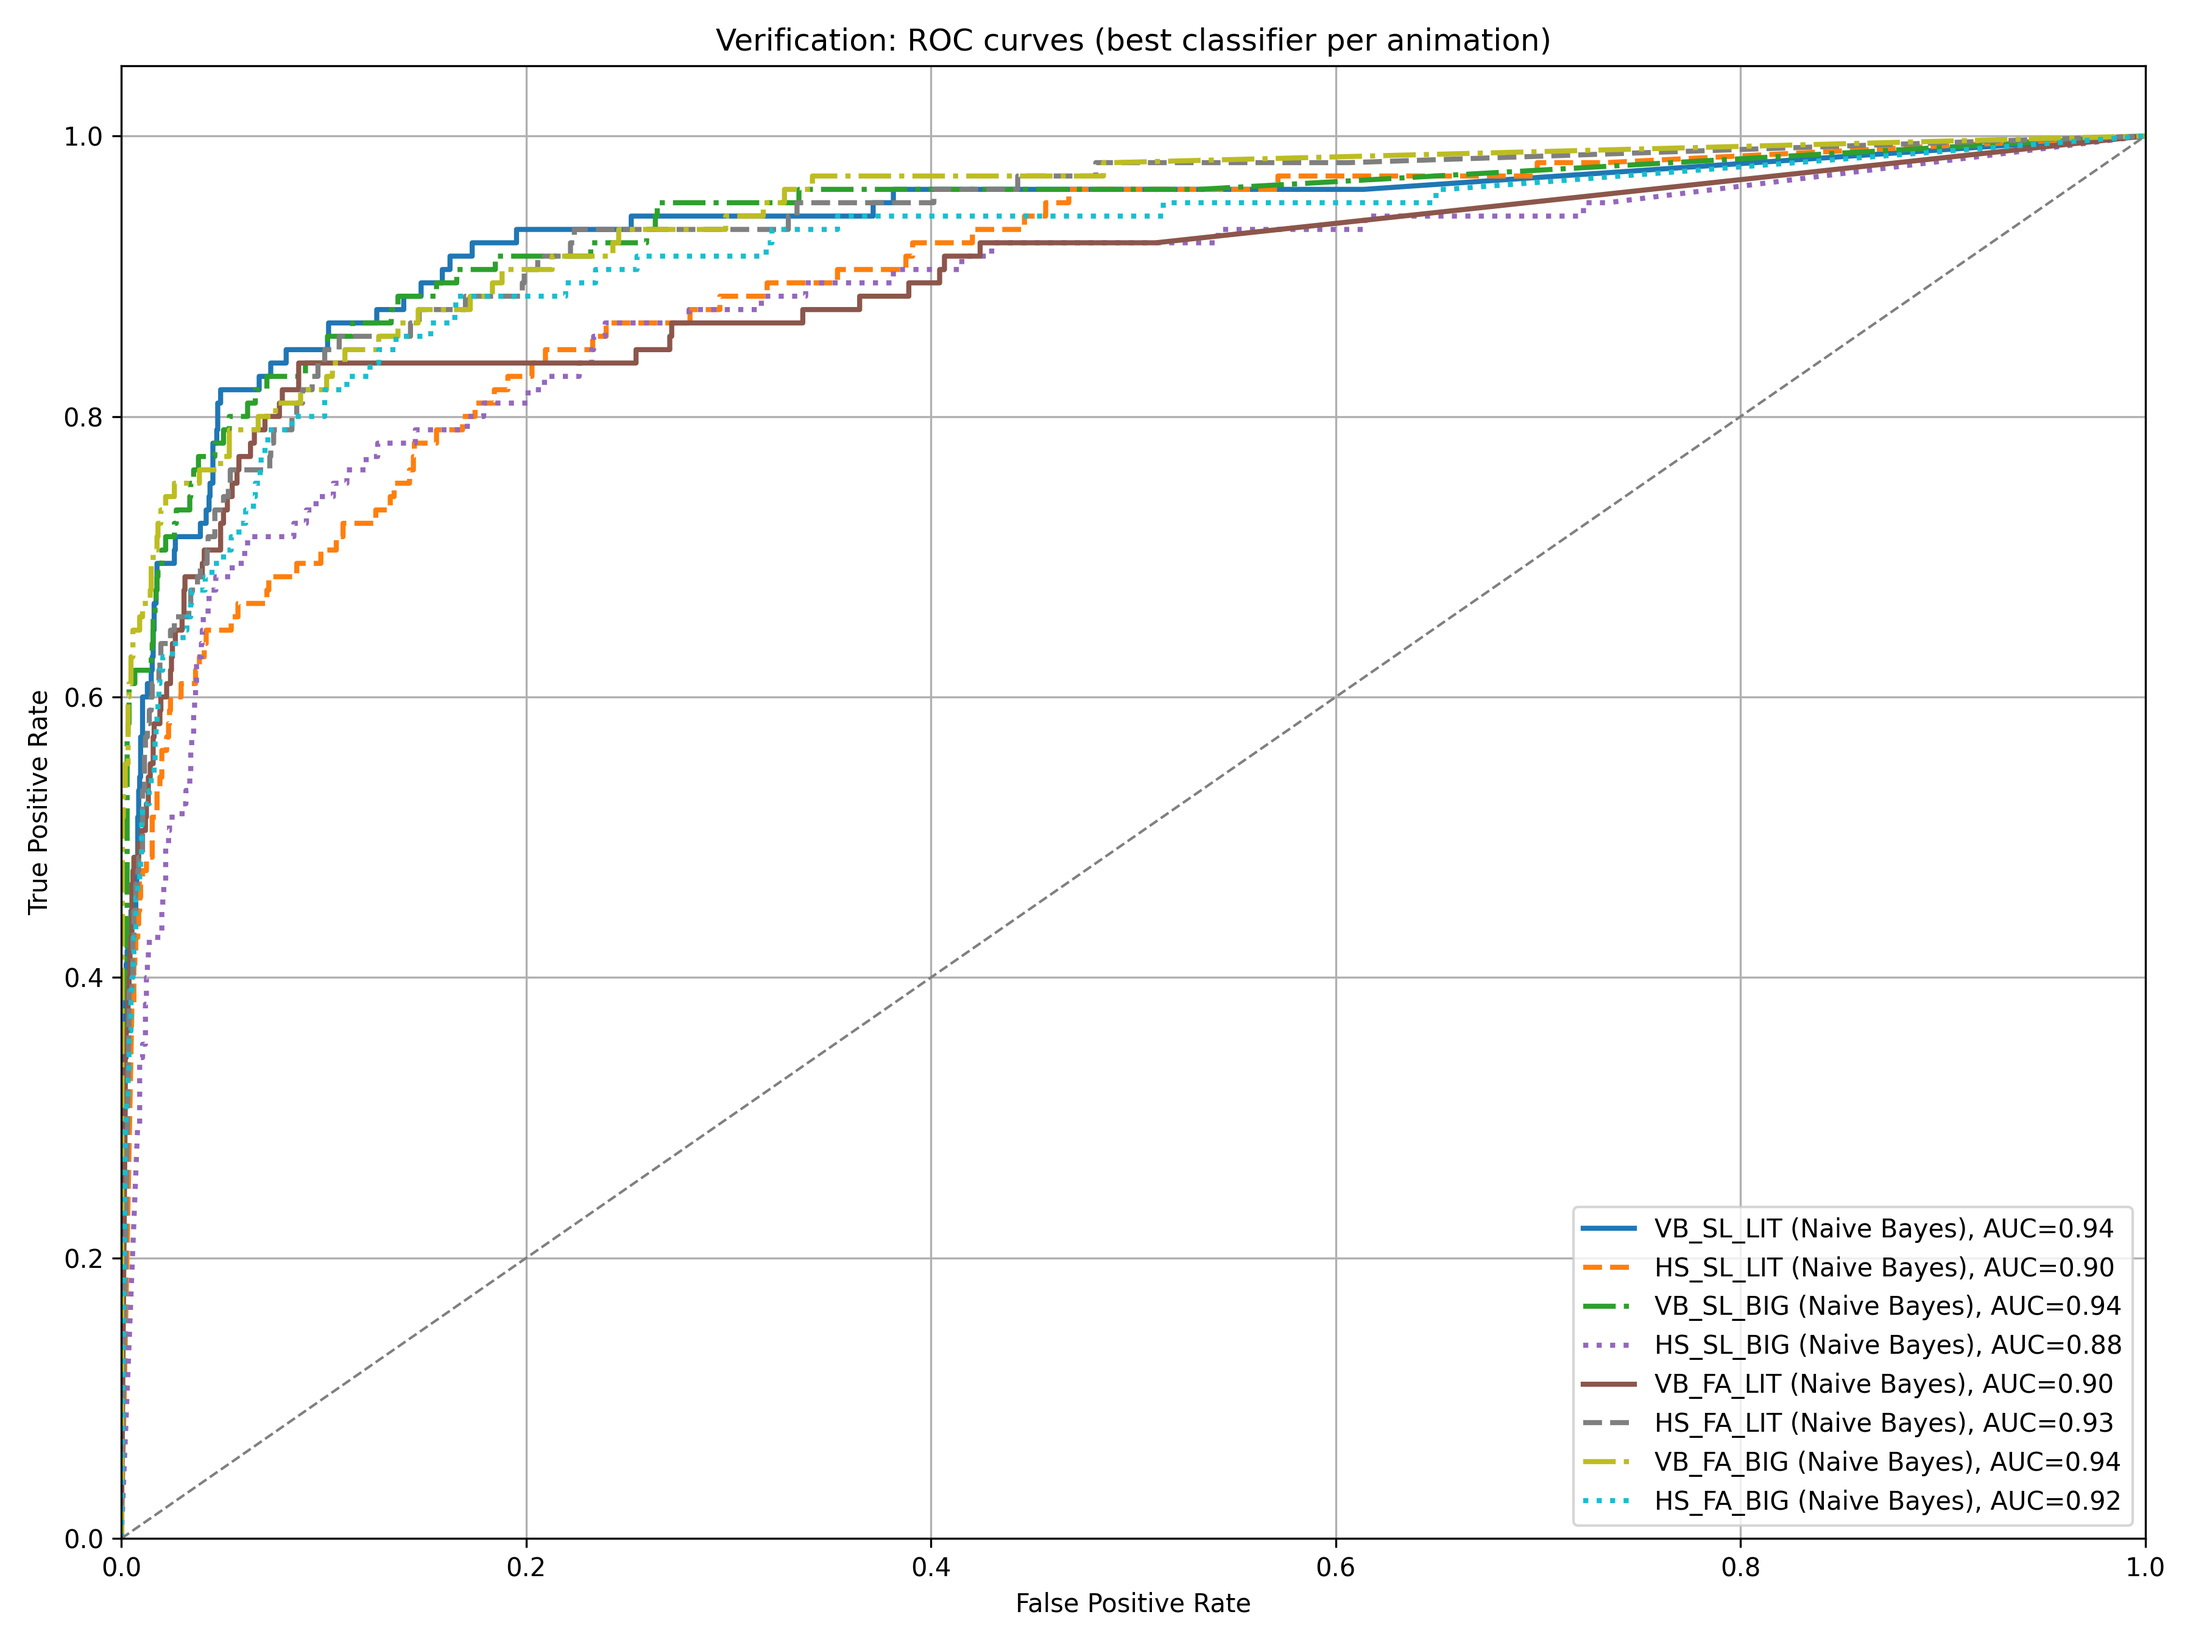
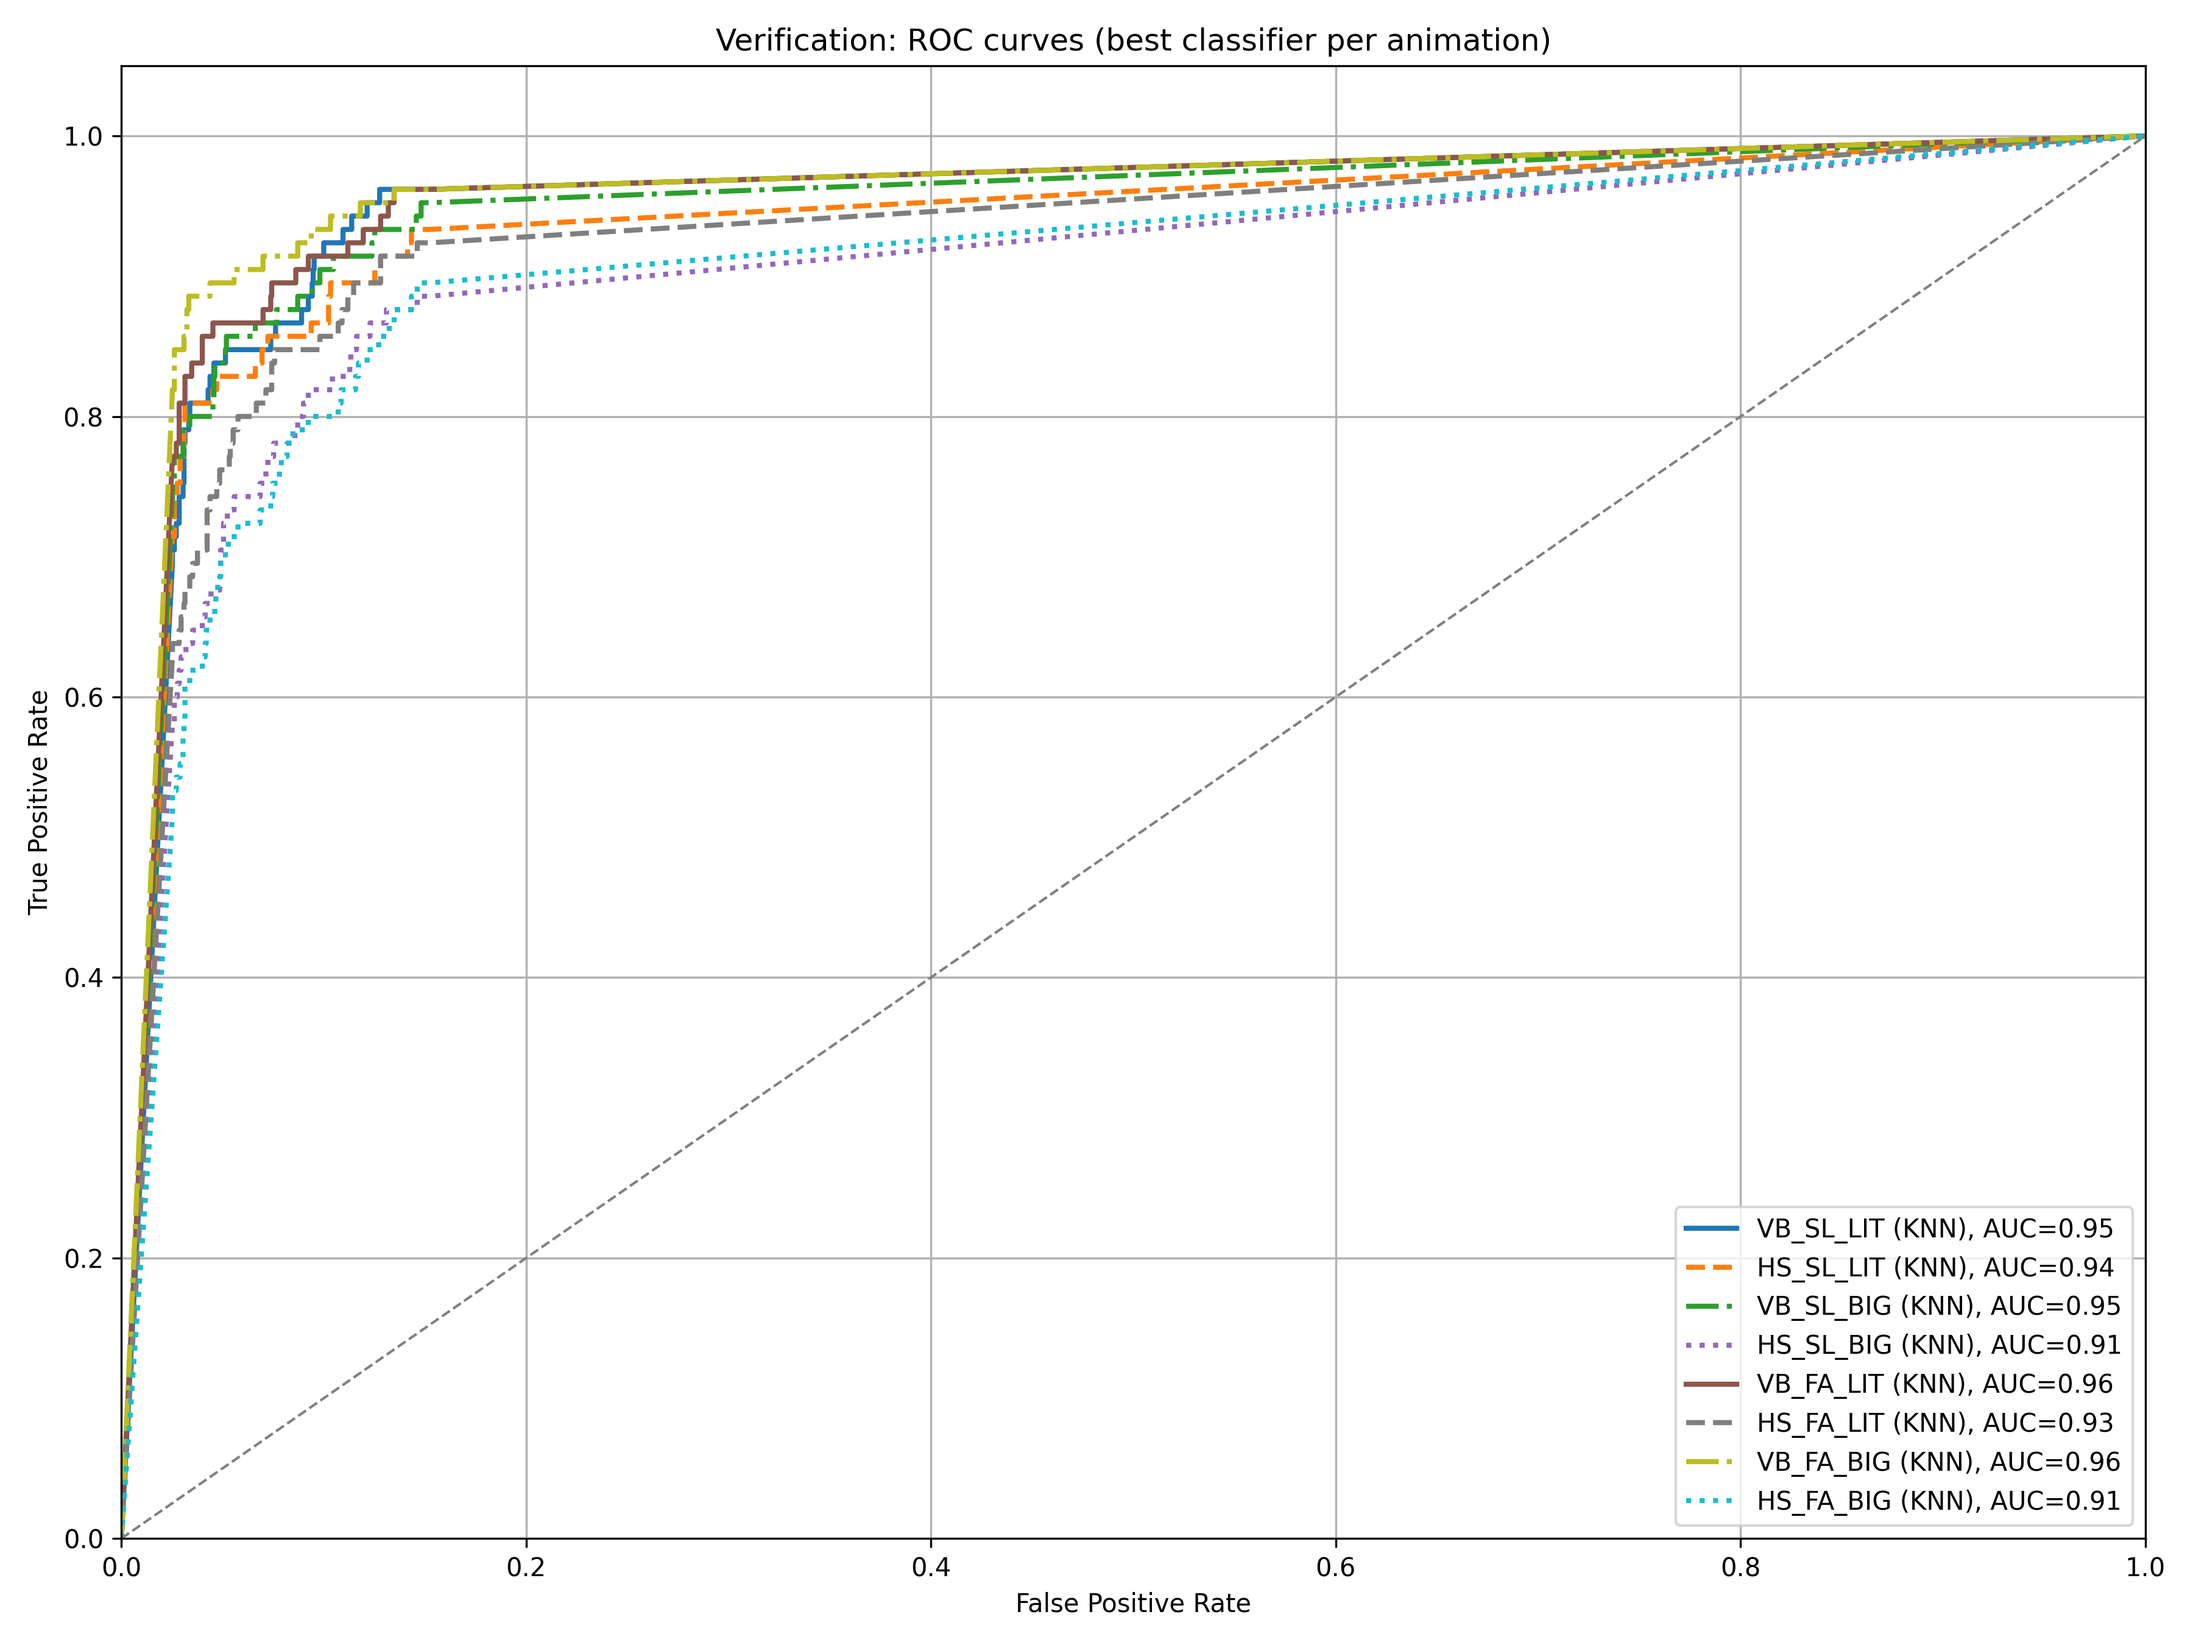
verification single ft corrected

Changed region(s): [[0.0311, 0.0622, 0.9644, 0.8711], [0.7156, 0.7156, 0.9022, 0.9333], [0.1556, 0.28, 0.1867, 0.3111]]

diff --git a/Programs/Machine_Learning/Verification/Verification_single_ft.py b/Programs/Machine_Learning/Verification/Verification_single_ft.py
@@ -33,21 +33,21 @@ num_seed = 20
 roc_data_dict = {}
 
 
-#csv_path = r"C:\Users\Davide Mascheroni\Desktop\movingText\movingText\Feature_csv\feature_vector.csv"
-csv_path = r"C:\Users\david\OneDrive\Documenti\Tesi_BehavBio\Programs\Feature_csv\feature_vector.csv"
+csv_path = r"C:\Users\Davide Mascheroni\Desktop\movingText\movingText\Feature_csv\feature_vector.csv"
+#csv_path = r"C:\Users\david\OneDrive\Documenti\Tesi_BehavBio\Programs\Feature_csv\feature_vector.csv"
 
-#results_path = r"C:\Users\Davide Mascheroni\Desktop\movingText\movingText\Programs\Machine_Learning\Machine_Learning_results\Verification_single_results\Verification_single_results_ft.csv"
-results_path = r"C:\Users\david\OneDrive\Documenti\Tesi_BehavBio\Programs\Programs\Machine_Learning\Machine_Learning_results\Verification_single_results\Verification_single_results_ft.csv"
+results_path = r"C:\Users\Davide Mascheroni\Desktop\movingText\movingText\Programs\Machine_Learning\Machine_Learning_results\Verification_single_results\Verification_single_results_ft.csv"
+#results_path = r"C:\Users\david\OneDrive\Documenti\Tesi_BehavBio\Programs\Programs\Machine_Learning\Machine_Learning_results\Verification_single_results\Verification_single_results_ft.csv"
 delete_file_if_exists(results_path)
 
-#best_k_file = r"C:\Users\Davide Mascheroni\Desktop\movingText\movingText\Programs\Machine_Learning\Machine_Learning_results\Identification_single_results\selected_features_ft.csv"
-best_k_file = r"C:\Users\david\OneDrive\Documenti\Tesi_BehavBio\Programs\Programs\Machine_Learning\Machine_Learning_results\Identification_single_results\selected_features_ft.csv"
+best_k_file = r"C:\Users\Davide Mascheroni\Desktop\movingText\movingText\Programs\Machine_Learning\Machine_Learning_results\Identification_single_results\selected_features_ft.csv"
+#best_k_file = r"C:\Users\david\OneDrive\Documenti\Tesi_BehavBio\Programs\Programs\Machine_Learning\Machine_Learning_results\Identification_single_results\selected_features_ft.csv"
 
-#best_params_file_path = r"C:\Users\Davide Mascheroni\Desktop\movingText\movingText\Programs\Machine_Learning\Machine_Learning_results\Identification_single_results\Identification_single_results_ft.csv"
-best_params_file_path = r"C:\Users\david\OneDrive\Documenti\Tesi_BehavBio\Programs\Programs\Machine_Learning\Machine_Learning_results\Identification_single_results\Identification_single_results_ft.csv"
+best_params_file_path = r"C:\Users\Davide Mascheroni\Desktop\movingText\movingText\Programs\Machine_Learning\Machine_Learning_results\Identification_single_results\Identification_single_results_ft.csv"
+#best_params_file_path = r"C:\Users\david\OneDrive\Documenti\Tesi_BehavBio\Programs\Programs\Machine_Learning\Machine_Learning_results\Identification_single_results\Identification_single_results_ft.csv"
 
-#roc_save_path =  r"C:\Users\Davide Mascheroni\Desktop\movingText\movingText\Programs\Machine_Learning\Machine_Learning_results\Verification_single_results\best_animation_roc_curves_ft.png"
-roc_save_path = r"C:\Users\david\OneDrive\Documenti\Tesi_BehavBio\Programs\Programs\Machine_Learning\Machine_Learning_results\Verification_single_results\best_animation_roc_curves_ft.png"
+roc_save_path =  r"C:\Users\Davide Mascheroni\Desktop\movingText\movingText\Programs\Machine_Learning\Machine_Learning_results\Verification_single_results\best_animation_roc_curves_ft.png"
+#roc_save_path = r"C:\Users\david\OneDrive\Documenti\Tesi_BehavBio\Programs\Programs\Machine_Learning\Machine_Learning_results\Verification_single_results\best_animation_roc_curves_ft.png"
 delete_file_if_exists(roc_save_path)
 
 def load_dataset(csv_path):
@@ -258,7 +258,7 @@ def update_roc_data(clf_name, animation, y_true, y_score, eer):
         }
 
 # Generate one large train set by concatenating the 20 training sets
-def prepare_big_train_data(dataset, person_data, num_seed, features_cols):
+def prepare_train_data(dataset, person_data, num_seed, features_cols):
     tester_id = person_data['tester_id'].iloc[0]
     train_genuine = person_data[person_data['session_id'].isin(['S1', 'S2'])]
     impostors_train_pool = dataset[(dataset['tester_id'] != tester_id) & (dataset['session_id'].isin(['S1', 'S2']))]
@@ -277,40 +277,47 @@ def prepare_big_train_data(dataset, person_data, num_seed, features_cols):
 
 
 def train_and_evaluate(dataset, animation, clf_name, clf_pipeline, features_cols, best_params, num_seed, results_path):
+  
     tester_metrics = []
     y_true_all = []
     y_score_all = []
 
     for person in dataset['tester_id'].unique():
-        person_data = dataset[(dataset['tester_id'] == person) & (dataset['anim_name'] == animation)]
+        person_data_all_anim = dataset[(dataset['tester_id'] == person)]
+        person_data_test_anim = dataset[(dataset['tester_id'] == person) & (dataset['anim_name'] == animation)]
 
-        # 1. Build a single large train set
-        X_train_big, y_train_big = prepare_big_train_data(dataset, person_data, num_seed, features_cols)
+        X_train_big, y_train_big = prepare_train_data(dataset, person_data_all_anim, num_seed, features_cols)
 
-        # 2. Train the model once
-        model_params = {k: v for k, v in best_params.items() if not k.startswith("feature_selection")}
-        model = clone(clf_pipeline).set_params(**model_params)
-        model.fit(X_train_big, y_train_big)
-        train_acc = model.score(X_train_big, y_train_big)
-
-        # 3. Test on 20 seeds (individually)
+        best_model = None
+        best_train_acc = -np.inf
         for seed in range(num_seed):
-            _, _, X_test, y_test = prepare_train_test_data(dataset, person_data, seed, features_cols)
-            test_acc, prec, rec, spec, roc_auc, eer = evaluate_model(model, X_test, y_test)
+            model_params = {k: v for k, v in best_params.items() if not k.startswith("feature_selection")}
+            model = clone(clf_pipeline).set_params(**model_params)
+            model.fit(X_train_big, y_train_big)
+            train_acc = model.score(X_train_big, y_train_big)
+            if train_acc > best_train_acc:
+                best_train_acc = train_acc
+                best_model = model
+
+        for seed in range(num_seed):
+            _, _, X_test, y_test = prepare_train_test_data(dataset, person_data_test_anim, seed, features_cols)
+            test_acc, prec, rec, spec, roc_auc, eer = evaluate_model(best_model, X_test, y_test)
             tester_metrics.append([test_acc, prec, rec, spec, roc_auc, eer])
 
-            # Collect ROC data
-            if hasattr(model, "predict_proba"):
-                y_score = model.predict_proba(X_test)[:, 1]
+            # Collect ROC info
+            if hasattr(best_model, "predict_proba"):
+                y_score = best_model.predict_proba(X_test)[:, 1]
             else:
-                y_score = model.decision_function(X_test)
+                y_score = best_model.decision_function(X_test)
             y_true_all.extend(y_test)
             y_score_all.extend(y_score)
 
     mean_metrics = np.mean(tester_metrics, axis=0)
     test_acc, prec, rec, spec, roc_auc, eer = mean_metrics
-    write_results(clf_name, best_params, train_acc, test_acc, (prec, rec, spec, roc_auc, eer), results_path, animation)
 
+    write_results(clf_name, best_params, best_train_acc, test_acc, (prec, rec, spec, roc_auc, eer), results_path, animation)
+
+    # Return ROC info for plotting
     roc_info = {
         'animation': animation,
         'y_true': np.array(y_true_all),
@@ -320,6 +327,7 @@ def train_and_evaluate(dataset, animation, clf_name, clf_pipeline, features_cols
     }
 
     return roc_info
+
 
 
 # Save the roc plot as a png
